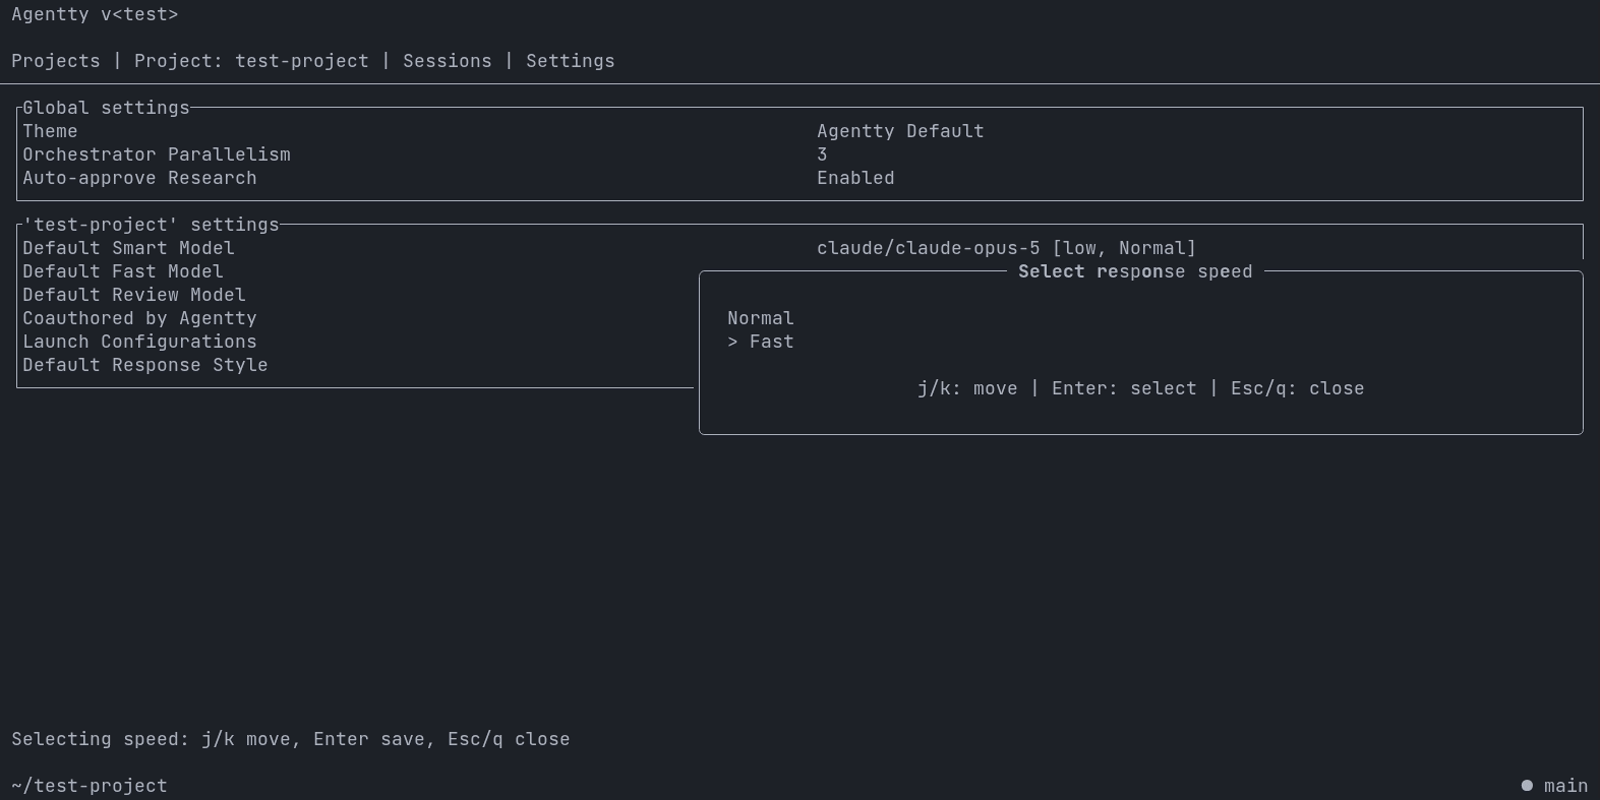
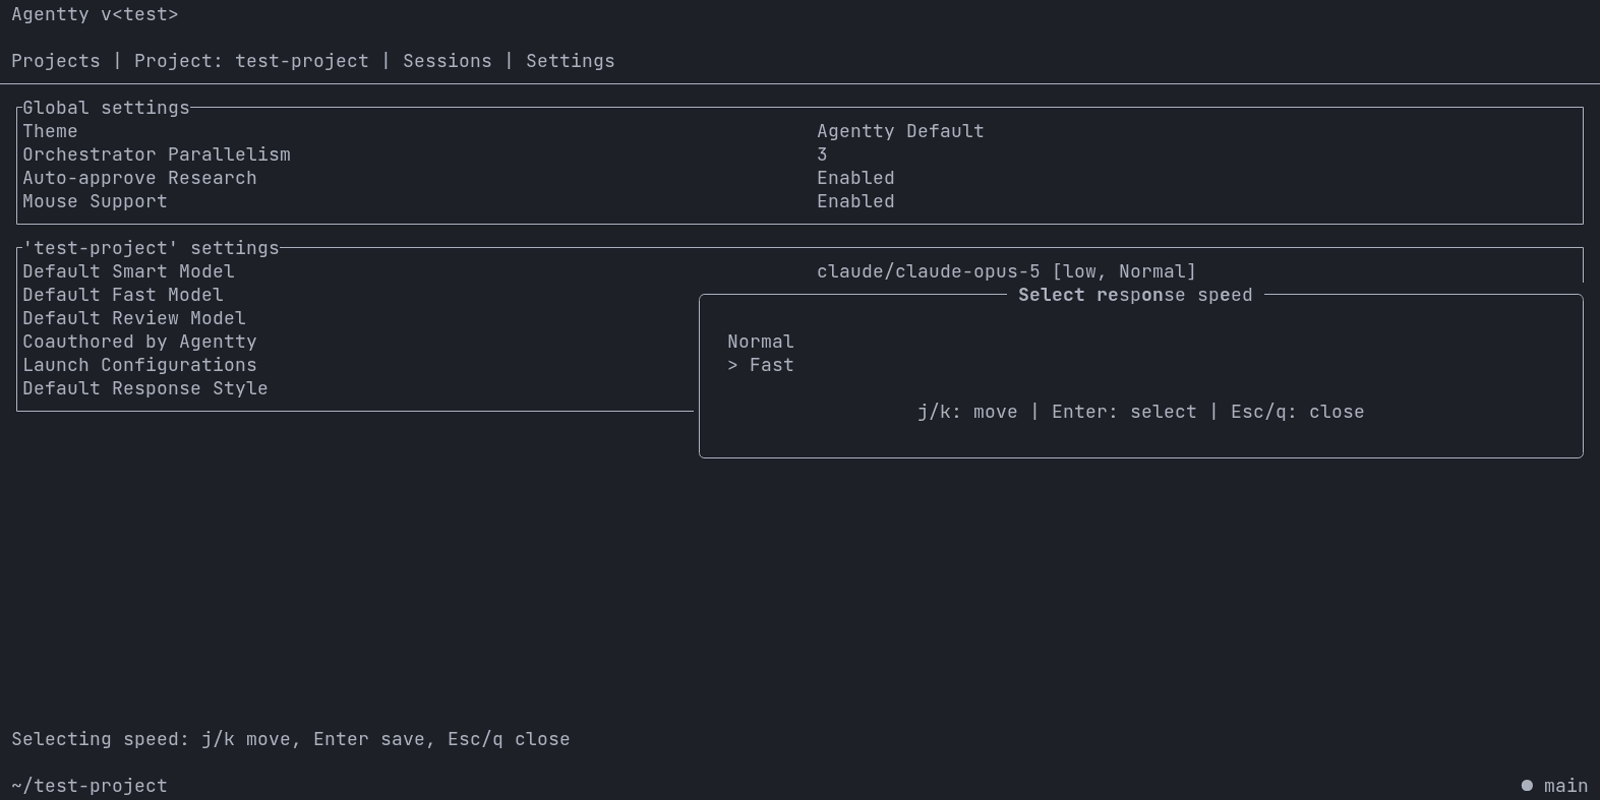
Make mouse E2E scenarios replay cleanly under VHS
- The PTY proof and the VHS recording share one environment, so both
  scenarios seed their starting tab instead of pressing `Tab`, and the
  settings scenario restores `Mouse Support` to `Enabled` so the
  recording starts from the same persisted state.
- The wheel scenario keeps PTY coverage only: VHS types each character
  as a separate key event, so the SGR sequence's leading `ESC` is parsed
  as a plain `Esc` key and no recording can show real wheel scrolling.
- Record the `settings_mouse_support` feature GIF with its poster and
  refresh the `settings_edit` poster for the added settings row.

diff --git a/crates/agentty/tests/e2e/mouse.rs b/crates/agentty/tests/e2e/mouse.rs
@@ -4,13 +4,24 @@
 //! Wheel input is injected as raw SGR mouse sequences (`ESC [ < 64 ; col ; row
 //! M` for wheel-up, `65` for wheel-down) written straight to the PTY, the same
 //! way the CSI-u and bracketed-paste tests inject their escape sequences.
+//!
+//! The semantic PTY run and the VHS recording share one environment, so each
+//! scenario seeds its starting tab instead of pressing `Tab` (which persists
+//! the active tab) and leaves every persisted setting as it found it.
+//!
+//! The wheel scenario has no feature page or GIF: VHS types every character as
+//! a separate browser key event, so the leading `ESC` reaches crossterm alone
+//! and is parsed as a plain `Esc` key instead of a mouse event. Only the PTY
+//! executor can deliver the SGR sequence atomically.
 
+use agentty::app::Tab;
 use agentty::domain::session_message::SessionMessageKind;
 use testty::assertion;
 use testty::region::Region;
 
 use crate::common;
 use crate::common::{BuilderEnv, FeatureTest, SessionSeed};
+use crate::test_support::persist_active_tab_for_test;
 
 type E2eResult = Result<(), Box<dyn std::error::Error>>;
 
@@ -26,7 +37,8 @@ const WHEEL_UP_OVER_TRANSCRIPT: &str = "\x1b[<64;40;10M";
 /// One SGR wheel-down notch over the middle of the transcript panel.
 const WHEEL_DOWN_OVER_TRANSCRIPT: &str = "\x1b[<65;40;10M";
 
-/// Seeds one review-ready session whose transcript is taller than the view.
+/// Seeds one review-ready session whose transcript is taller than the view and
+/// starts the app on the Sessions tab.
 ///
 /// Paragraph labels avoid spaces because testty's text search skips blank
 /// cells the terminal never repainted.
@@ -52,7 +64,8 @@ async fn seed_session_with_long_transcript(env: &BuilderEnv) -> E2eResult {
                 SessionMessageKind::AssistantAnswer,
                 &transcript,
             )
-            .await
+            .await?;
+        persist_active_tab_for_test(&database, Tab::Sessions).await
     })
     .await?;
 
@@ -68,16 +81,10 @@ async fn mouse_wheel_scrolls_session_output() {
     // Arrange, Act, Assert
     FeatureTest::new("mouse_wheel_scroll")
         .setup(|env| Box::pin(async move { seed_session_with_long_transcript(env).await }))
-        .zola(
-            "Mouse wheel scrolling",
-            "Scroll the session transcript with the mouse wheel and drag its scrollbar.",
-            127,
-        )
         .run(
             |scenario| {
                 scenario
                     .compose(&common::wait_for_agentty_startup())
-                    .compose(&common::switch_to_tab("Sessions"))
                     .compose(&common::open_selected_session_view())
                     .wait_for_text("transcript_line_40", 5000)
                     .viewing_pause_ms(1500)
@@ -127,23 +134,36 @@ async fn mouse_wheel_scrolls_session_output() {
         .expect("feature test failed");
 }
 
+/// Starts the app on the Settings tab so the scenario never presses `Tab`.
+async fn seed_settings_tab(env: &BuilderEnv) -> E2eResult {
+    (async {
+        let database = common::open_database(env).await?;
+        persist_active_tab_for_test(&database, Tab::Settings).await
+    })
+    .await?;
+
+    Ok(())
+}
+
 /// Verify that the `Mouse Support` switch lives in the global settings section
-/// and can be turned off from its dropdown.
+/// and can be turned off and back on from its dropdown.
+///
+/// The switch is restored to `Enabled` at the end so the VHS recording starts
+/// from the same persisted state as the semantic run.
 #[tokio::test]
 async fn settings_mouse_support_switch() {
     // Arrange, Act, Assert
     FeatureTest::new("settings_mouse_support")
+        .setup(|env| Box::pin(async move { seed_settings_tab(env).await }))
         .zola(
             "Mouse support switch",
-            "Turn terminal mouse capture off from the global settings.",
+            "Turn terminal mouse capture off and back on from the global settings.",
             157,
         )
         .run(
             |scenario| {
                 scenario
                     .compose(&common::wait_for_agentty_startup())
-                    .compose(&common::switch_to_tab("Sessions"))
-                    .compose(&common::switch_to_tab("Settings"))
                     .wait_for_text("Mouse Support", 5000)
                     .viewing_pause_ms(1500)
                     .capture_labeled("enabled", "Mouse Support enabled by default")
@@ -163,13 +183,21 @@ async fn settings_mouse_support_switch() {
                     .wait_for_stable_frame(200, 3000)
                     .viewing_pause_ms(2000)
                     .capture_labeled("disabled", "Mouse Support turned off")
+                    .press_key("Enter")
+                    .wait_for_text("Select setting value", 3000)
+                    .press_key("j")
+                    .wait_for_stable_frame(200, 3000)
+                    .press_key("Enter")
+                    .wait_for_stable_frame(200, 3000)
+                    .viewing_pause_ms(1500)
+                    .capture_labeled("restored", "Mouse Support turned back on")
             },
             |frame, report| {
                 Box::pin(async move {
                     assert_eq!(
                         report.captures.len(),
-                        3,
-                        "Expected 3 captures (enabled, dropdown, disabled)"
+                        4,
+                        "Expected 4 captures (enabled, dropdown, disabled, restored)"
                     );
 
                     let enabled_frame = common::frame_from_capture(&report.captures[0]);
@@ -186,10 +214,20 @@ async fn settings_mouse_support_switch() {
                     );
                     assertion::assert_match_count(&enabled_frame, "Enabled", 2);
 
+                    let disabled_frame = common::frame_from_capture(&report.captures[2]);
+                    let disabled_full = Region::full(disabled_frame.cols(), disabled_frame.rows());
+                    assertion::assert_text_in_region(
+                        &disabled_frame,
+                        "Mouse Support",
+                        &disabled_full,
+                    );
+                    assertion::assert_match_count(&disabled_frame, "Enabled", 1);
+                    assertion::assert_match_count(&disabled_frame, "Disabled", 2);
+
                     let full = Region::full(frame.cols(), frame.rows());
                     assertion::assert_text_in_region(frame, "Mouse Support", &full);
-                    assertion::assert_match_count(frame, "Enabled", 1);
-                    assertion::assert_match_count(frame, "Disabled", 2);
+                    assertion::assert_match_count(frame, "Enabled", 2);
+                    assertion::assert_match_count(frame, "Disabled", 1);
                 })
             },
         )

diff --git a/docs/site/content/features/settings_mouse_support.md b/docs/site/content/features/settings_mouse_support.md
@@ -1,0 +1,7 @@
++++
+title = "Mouse support switch"
+description = "Turn terminal mouse capture off and back on from the global settings."
+weight = 157
+[extra]
+gif = "settings_mouse_support.gif"
++++
